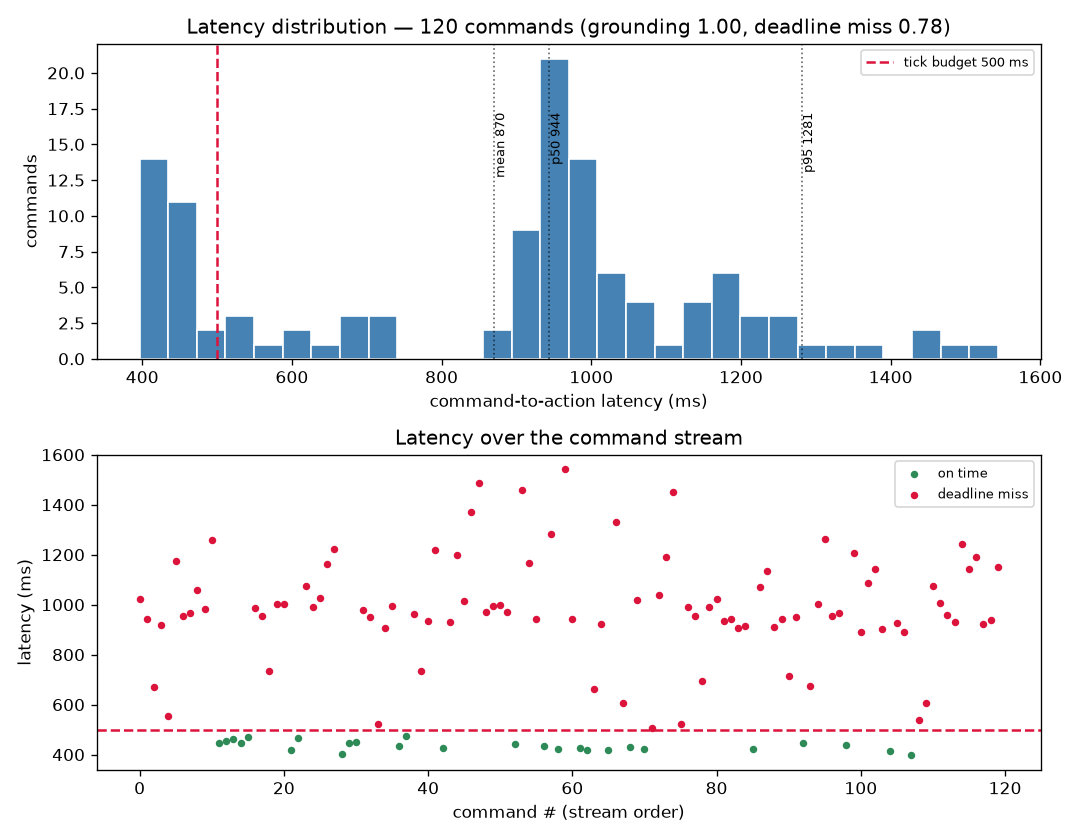
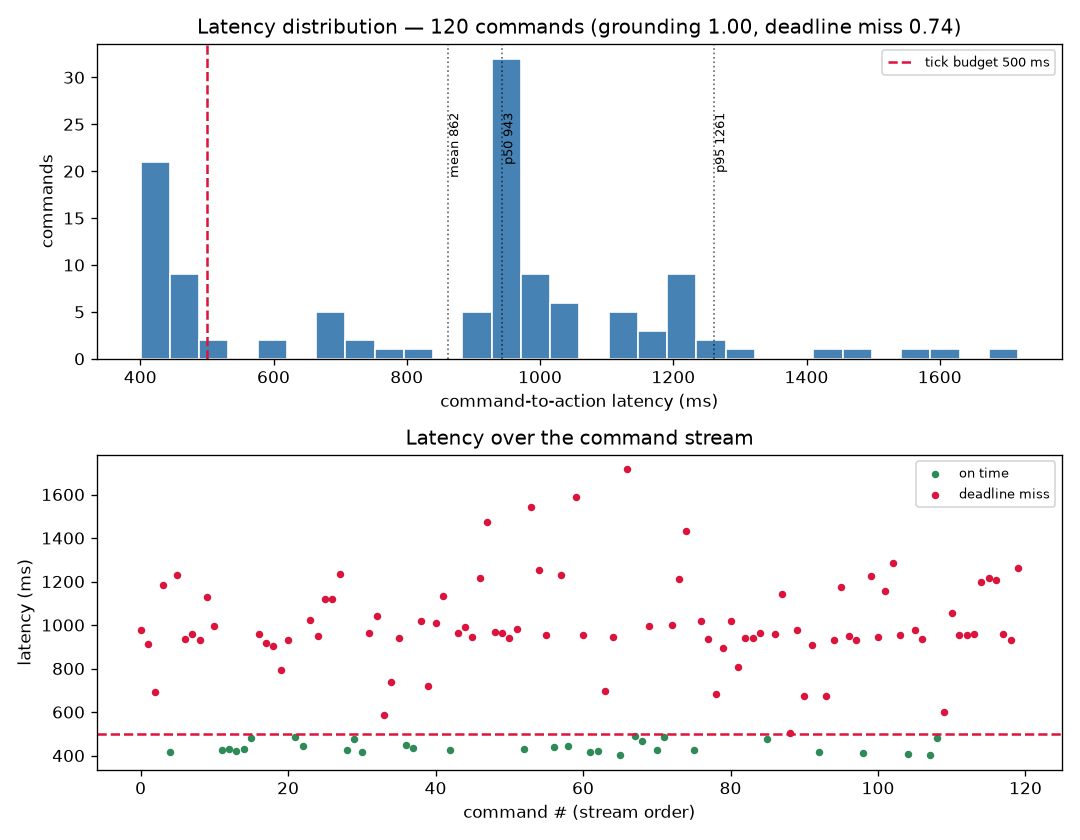
Add deadline-frontier curve to the report (miss rate vs budget)
- arena/metrics.py: miss_rate(latencies, deadline) — post-hoc threshold, so the
  whole frontier comes free from one run (TDD: tests/test_metrics.py).
- arena/viz.py: plot_deadline_frontier (all / single-target / multi-agent vs
  budget, current-deadline marker) + a "Deadline frontier" report section.
- 500ms is the scaffold default (~AVA 2Hz); single-target feasible ~500ms,
  multi-agent needs ~1500ms. The frontier (perf vs budget) is the real output.
- 18 tests pass.

diff --git a/arena/viz.py b/arena/viz.py
@@ -23,6 +23,7 @@ matplotlib.use("Agg")  # headless: no display on amax41
 import matplotlib.pyplot as plt              # noqa: E402
 from matplotlib.animation import FuncAnimation, FFMpegWriter  # noqa: E402
 
+from .metrics import miss_rate               # noqa: E402
 from .recorder import Frame                  # noqa: E402
 
 _NPC_COLOUR = "0.6"
@@ -121,6 +122,41 @@ def plot_metrics(report: dict, latencies_ms: list[float], frames: list[Frame],
     return out_path
 
 
+def plot_deadline_frontier(frames: list[Frame], tick_ms: int,
+                           out_path: str | Path) -> Path:
+    """Deadline miss rate vs deadline budget, overall and by command type.
+
+    Pure post-hoc: a miss is latency > deadline, so the whole curve comes from
+    one run's latencies — no extra inference. Shows what latency budget the model
+    needs, instead of fixing a single (arbitrary) deadline.
+    """
+    out_path = Path(out_path)
+    deadlines = list(range(100, 2601, 50))
+    alll = [f.latency_ms for f in frames]
+    single = [f.latency_ms for f in frames if len(f.targets) == 1]
+    multi = [f.latency_ms for f in frames if len(f.targets) >= 2]
+
+    fig, ax = plt.subplots(figsize=(9, 4.2))
+    for lats, label, colour in ((alll, "all commands", "black"),
+                                (single, "single-target", "seagreen"),
+                                (multi, "multi-agent", "crimson")):
+        if lats:
+            ax.plot(deadlines, [miss_rate(lats, d) for d in deadlines],
+                    label=f"{label} (n={len(lats)})", color=colour, lw=2)
+    ax.axvline(tick_ms, color="gray", ls="--", lw=1.5,
+               label=f"current deadline {tick_ms} ms")
+    ax.set_xlabel("deadline budget (ms)")
+    ax.set_ylabel("deadline miss rate")
+    ax.set_ylim(-0.02, 1.02)
+    ax.set_title("Deadline frontier — miss rate vs budget")
+    ax.grid(True, color="0.92")
+    ax.legend(fontsize=8)
+    fig.tight_layout()
+    fig.savefig(out_path, dpi=120)
+    plt.close(fig)
+    return out_path
+
+
 def frame_data_uris(frames: list[Frame], grid: int, max_frames: int = 200) -> list[str]:
     """Render each frame to a small PNG and return base64 data: URIs."""
     fig, ax = plt.subplots(figsize=(4.2, 4.6))
@@ -152,6 +188,7 @@ def _segment_stats(frames: list[Frame]) -> tuple[int, float, float]:
 def build_html_report(report: dict, metrics_png: str | Path,
                       frame_uris: list[str], out_path: str | Path,
                       meta: dict, frames: list[Frame],
+                      frontier_png: str | Path | None = None,
                       title: str = "World Commander — command arena report") -> Path:
     """Write a single, self-explanatory HTML report: what the experiment is, the
     run configuration, every metric defined, a grid legend, the charts explained,
@@ -159,6 +196,22 @@ def build_html_report(report: dict, metrics_png: str | Path,
     out_path = Path(out_path)
     metrics_uri = _data_uri_from_file(metrics_png)
     frames_js = "[\n" + ",\n".join(f'"{u}"' for u in frame_uris) + "\n]"
+
+    frontier_section = ""
+    if frontier_png is not None:
+        frontier_uri = _data_uri_from_file(frontier_png)
+        frontier_section = (
+            "<h2>Deadline frontier</h2>\n"
+            f'<img class="metrics" src="{frontier_uri}" alt="deadline frontier">\n'
+            '<p class="hint">A deadline miss is simply <i>latency &gt; deadline</i>, so this '
+            "whole curve is computed post-hoc from one run — no extra inference. It shows the "
+            "latency <b>budget</b> the model needs instead of fixing a single, arbitrary "
+            f"deadline. At the current {meta.get('tick_ms','?')} ms, single-target commands are "
+            "feasible while multi-agent ones are not; multi-agent commands need roughly 1.5 s to "
+            "arrive on time. This performance-vs-budget frontier is the benchmark’s real output — "
+            "any single deadline is just one vertical slice of it, and it shifts with model size, "
+            "GPU, and output verbosity.</p>"
+        )
 
     summary = (f"{report['commands']} commands &middot; grounding "
                f"<b>{report['grounding_accuracy']:.2f}</b> &middot; deadline miss "
@@ -318,6 +371,8 @@ single-target vs slower multi-agent orders.<br>
 <b>Bottom — latency over the stream.</b> One dot per command in issue order;
 green = on time, red = deadline miss. Shows whether misses are scattered or
 clustered as the stream runs.</p>
+
+{frontier_section}
 
 <script>
 const FRAMES = {frames_js};

diff --git a/tests/test_metrics.py b/tests/test_metrics.py
@@ -1,0 +1,10 @@
+"""Tests for metric helpers."""
+from arena.metrics import miss_rate
+
+
+def test_miss_rate_is_a_threshold_on_latency():
+    lats = [100.0, 400.0, 600.0, 1000.0]
+    assert miss_rate(lats, 500) == 0.5      # 600 and 1000 exceed 500
+    assert miss_rate(lats, 1000) == 0.0     # strict >, so 1000 is on time
+    assert miss_rate(lats, 0) == 1.0
+    assert miss_rate([], 500) == 0.0        # empty -> no misses

diff --git a/arena/metrics.py b/arena/metrics.py
@@ -5,6 +5,15 @@ import statistics
 from dataclasses import dataclass, field
 
 
+def miss_rate(latencies_ms: list[float], deadline_ms: float) -> float:
+    """Fraction of commands that exceed a deadline. A deadline miss is just a
+    threshold on the measured latency, so any deadline's miss rate (the whole
+    frontier) is computable post-hoc from one run — no re-inference needed."""
+    if not latencies_ms:
+        return 0.0
+    return sum(l > deadline_ms for l in latencies_ms) / len(latencies_ms)
+
+
 @dataclass
 class Metrics:
     n: int = 0

diff --git a/scripts/visualize.py b/scripts/visualize.py
@@ -73,13 +73,15 @@ def main() -> None:
     outdir.mkdir(parents=True, exist_ok=True)
     png = viz.plot_metrics(report, metrics.latencies_ms, rec.frames,
                            args.tick_ms, outdir / "metrics.png")
+    frontier = viz.plot_deadline_frontier(rec.frames, args.tick_ms,
+                                           outdir / "frontier.png")
     uris = viz.frame_data_uris(rec.frames, args.grid)
     meta = {"model": "mock" if args.mock else cfg.model, "grid": args.grid,
             "agents": args.agents, "npcs": args.npcs, "tick_ms": args.tick_ms,
             "seed": args.seed}
     html = viz.build_html_report(report, png, uris, outdir / "report.html",
-                                 meta, rec.frames)
-    print(f"wrote {png}\nwrote {html}")
+                                 meta, rec.frames, frontier_png=frontier)
+    print(f"wrote {png}\nwrote {frontier}\nwrote {html}")
 
     if args.mp4 or args.upload:
         mp4 = viz.render_replay(rec.frames, args.grid, args.tick_ms,

diff --git a/LOG.md b/LOG.md
@@ -4,6 +4,25 @@ Append-only record of work sessions. Newest first.
 
 ---
 
+## 2026-06-19 — Deadline-frontier curve added to the report
+
+**Goal:** answer "is 500 ms too strict?" with a curve instead of a single number.
+
+**Actions (TDD):**
+1. `arena/metrics.py` — `miss_rate(latencies, deadline)` (post-hoc threshold;
+   `tests/test_metrics.py`). The whole frontier is free from one run's latencies.
+2. `arena/viz.py` — `plot_deadline_frontier` (miss rate vs budget, split all /
+   single-target / multi-agent, with the current-deadline marker). New
+   "Deadline frontier" section in `report.html`; `assets/frontier.png` committed.
+3. `scripts/visualize.py` wires it in. Regenerated + published.
+
+**Finding:** single-target commands are feasible at ~500 ms; multi-agent commands
+need ~1500 ms. 500 ms is a *discriminating* point (singles pass, multi fail), not
+necessarily "too strict" — the point is to report the frontier, not one deadline.
+18 tests pass.
+
+---
+
 ## 2026-06-19 — Concurrent clock implemented (the world no longer pauses)
 
 **Goal:** make the arena's clock truly unpausable — the world advances while the

diff --git a/REPORT.md b/REPORT.md
@@ -78,6 +78,16 @@ under the tick.
 a positively named subset (sizes 2..N), and all-except. (Earlier runs only had
 single + all-except, missing positive subsets like "move the blue and green ones".)
 
+**Deadline frontier.** The 500 ms deadline is the scaffold default (it matches
+AVA's ~2 Hz VLM-commander cadence), not a derived value. Since a miss is just
+`latency > deadline`, the whole miss-rate-vs-budget curve is computable post-hoc
+from one run — this is the benchmark's real output (performance vs budget), not a
+single number. On this setup, single-target commands are feasible at ~500 ms
+while multi-agent commands need ~1500 ms. The curve shifts with model size, GPU,
+and output verbosity.
+
+![deadline frontier](assets/frontier.png)
+
 ## Validation
 - `pytest -q` → 8 passed (world, grounding, recorder).
 